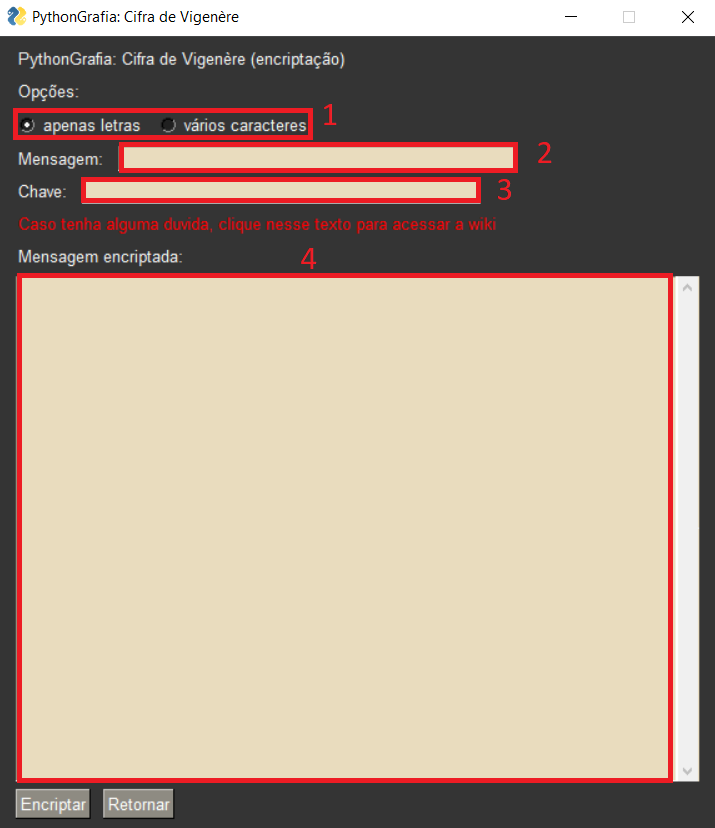
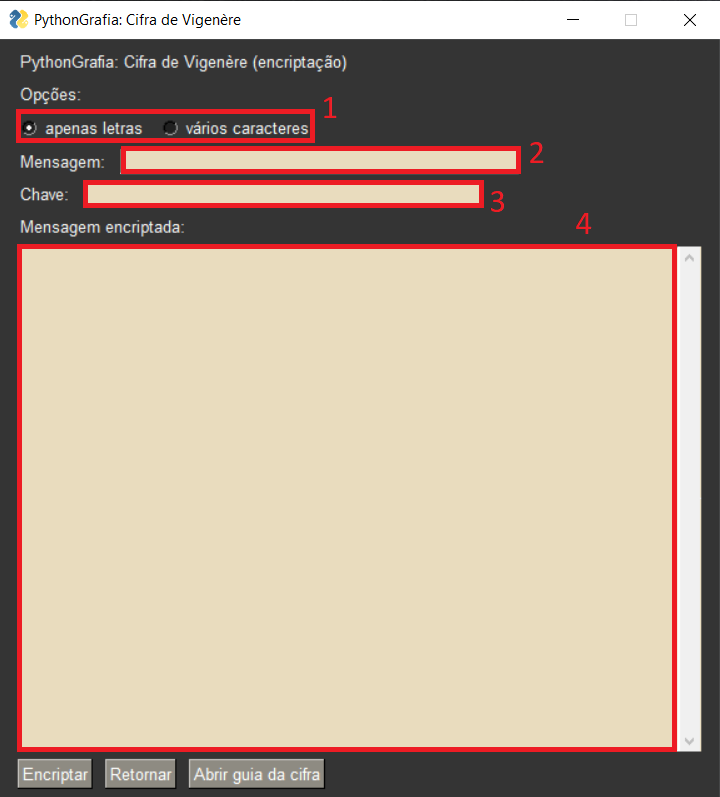
Botão/ Screenshots

Changed region(s): [[0.0, 0.0, 1.0, 0.9937]]

diff --git a/main.py b/main.py
@@ -11,7 +11,7 @@ dic_opçoes_disponiveis = {'Cifra de César': ['apenas letras', 'vários caracte
                           'Substituição simples':['apenas letras', 'vários caracteres'],
                           'Cifra de Vigenère':['apenas letras', 'vários caracteres']}
 dic_link_cifras = {'Cifra de César':'https://github.com/GregorioFornetti/Programa-criptografia/wiki/Guia-do-programa-criptografia:-Cifra-de-cesar.',
-                   'Substituição simples':'https://github.com/GregorioFornetti/Programa-criptografia/wiki/Guia-do-programa-criptografia:-Cifra-de-substitui%C3%A7%C3%A3o-simples.',
+                   'Substituição simples':'https://github.com/GregorioFornetti/Programa-criptografia/wiki/Guia-do-programa-criptografia:-Cifra-de-substitui%C3%A7%C3%A3o-simples',
                    'Cifra de Vigenère':'https://github.com/GregorioFornetti/Programa-criptografia/wiki/Guia-do-programa-criptografia:-Cifra-de-Vigen%C3%A8re'}
 
 def main():
@@ -77,10 +77,9 @@ def retorna_layout_padrao_traduçao(titulo, criptografia):
              retorna_layout_opçoes(criptografia),
              [sg.Text('Mensagem encriptada:'), sg.InputText(key='mensagem')],
              [sg.Text('Chave:'), sg.InputText(key='chave')],
-             [sg.Text('Caso tenha alguma duvida, clique nesse texto para acessar a wiki', key='link', enable_events=True, text_color="red")],
              [sg.Text('Mensagem traduzida:')],
              [sg.Output(size=(75,25))],
-             [sg.Button('Traduzir', key='traduzir'), sg.Button('Retornar', key='retornar')]]
+             [sg.Button('Traduzir', key='traduzir'), sg.Button('Retornar', key='retornar'), sg.Button('Abrir guia da cifra', key='link')]]
     return layout
 
 
@@ -90,10 +89,9 @@ def retorna_layout_padrao_encriptaçao(titulo, criptografia):
              retorna_layout_opçoes(criptografia),
              [sg.Text('Mensagem:'), sg.InputText(key='mensagem')],
              [sg.Text('Chave:'), sg.InputText(key='chave')],
-             [sg.Text('Caso tenha alguma duvida, clique nesse texto para acessar a wiki', key='link', enable_events=True, text_color="red")],
              [sg.Text('Mensagem encriptada:')],
              [sg.Output(size=(75,25))],
-             [sg.Button('Encriptar', key='traduzir'), sg.Button('Retornar', key='retornar')]]
+             [sg.Button('Encriptar', key='traduzir'), sg.Button('Retornar', key='retornar'), sg.Button('Abrir guia da cifra', key='link')]]
     return layout
 
 
@@ -134,6 +132,7 @@ def menu_cesar_encriptar(tela_anterior):
     tela_cesar_encript = sg.Window('PythonGrafia: Cifra de César', layout_cesar_encript)
     while True:
         evento, valores = tela_cesar_encript.read()
+        print(evento)
         if voltou_para_tela_anterior(evento, tela_anterior, tela_cesar_encript):
             break
         if evento == 'link':
@@ -187,9 +186,9 @@ def menu_subst_simples_traduzir(tela_anterior):
             break
         if evento == 'link':
             webbrowser.open(dic_link_cifras['Substituição simples'])
-        if valores['apenas letras']:
+        elif valores['apenas letras']:
             print(subst_simples.executar_modo_apenas_letras(valores['chave_2'], valores['chave_1'], valores['mensagem']))
-        if valores['vários caracteres']:
+        else:
             print(subst_simples.executar_modo_varios_caracteres(valores['chave_2'], valores['chave_1'], valores['mensagem']))
 
 
@@ -210,7 +209,7 @@ def menu_vigenere_encriptar(tela_anterior):
             break
         if evento == 'link':
             webbrowser.open(dic_link_cifras['Cifra de Vigenère'])
-        if valores['apenas letras']:
+        elif valores['apenas letras']:
             print(cifra_de_vigenere.encriptar_modo_apenas_letras(valores['chave'], valores['mensagem']))
         else:
             print(cifra_de_vigenere.encriptar_modo_varios_caracteres(valores['chave'], valores['mensagem']))
@@ -225,7 +224,7 @@ def menu_vigenere_traduzir(tela_anterior):
             break
         if evento == 'link':
             webbrowser.open(dic_link_cifras['Cifra de Vigenère'])
-        if valores['apenas letras']:
+        elif valores['apenas letras']:
             print(cifra_de_vigenere.traduzir_modo_apenas_letras(valores['chave'], valores['mensagem']))
         else:
             print(cifra_de_vigenere.traduzir_modo_varios_caracteres(valores['chave'], valores['mensagem']))
